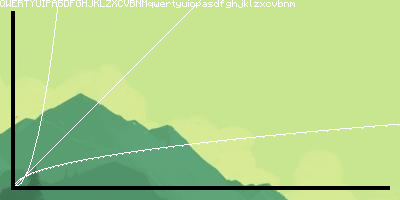
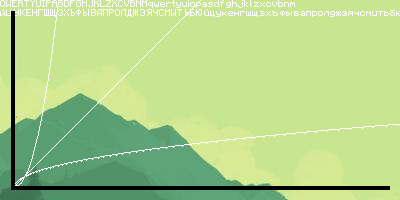
multiline font renderer

Changed region(s): [[0.0, 0.03, 1.0, 0.09]]

diff --git a/src/main/java/the/kis/devs/g2i/Main.java b/src/main/java/the/kis/devs/g2i/Main.java
@@ -134,13 +134,7 @@ public class Main {
 
             //Processing 1 usage of drawString method
             {
-//                ArrayList<Pair<Integer, Integer>> map = FontRenderer.drawString("0NG hello from custom font renderer!!!!");
-
-                points.addAll(FontRenderer.drawString("QWERTYUIOPASDFGHJKLZXCVBNMqwertyuiopasdfghjklzxcvbnm"));
-
-//                for(int x : map.keySet()) {
-//                    points.add(new Pair<>(x, map.get(x)));
-//                }
+                points.addAll(FontRenderer.drawString("QWERTYUIOPASDFGHJKLZXCVBNMqwertyuiopasdfghjklzxcvbnm\nЙЦУКЕНГШЩЗХЪФЫВАПРОЛДЖЭЯЧСМИТЬБЮйцукенгшщзхъфывапролджэячсмитьбю"));
             }
         }
 

diff --git a/src/main/java/the/kis/devs/g2i/FontRenderer.java b/src/main/java/the/kis/devs/g2i/FontRenderer.java
@@ -90,13 +90,18 @@ public class FontRenderer {
         ArrayList<Pair<Integer, Integer>> points = new ArrayList<>();
 
         int xOffset = 0;
+        int yOffset = 0;
 
         for(char ch : string.toCharArray()) {
             if(CHAR_MAP.containsKey(ch)) {
                 for(Pair<Integer, Integer> point : CHAR_MAP.get(ch).a) {
-                    points.add(new Pair<>(point.a + xOffset, point.b));
+                    points.add(new Pair<>(point.a + xOffset, point.b + yOffset));
                 }
                 xOffset += (CHAR_MAP.get(ch).b + 2 * CHAR_OFFSET);
+            } else if(ch == '\n') {
+                xOffset = 0;
+                yOffset += CHAR_OFFSET + CHAR_SIZE;
+                        
             }
         }
 
